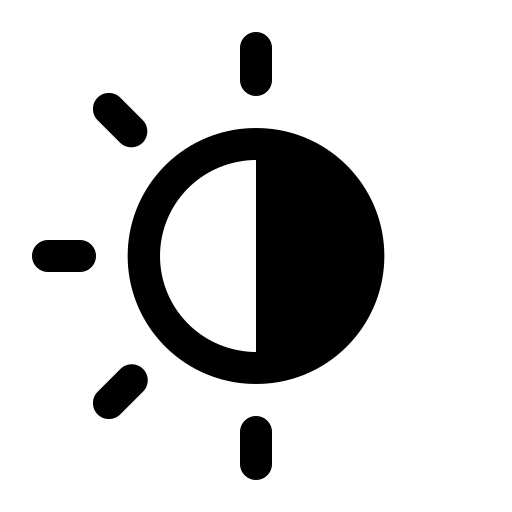
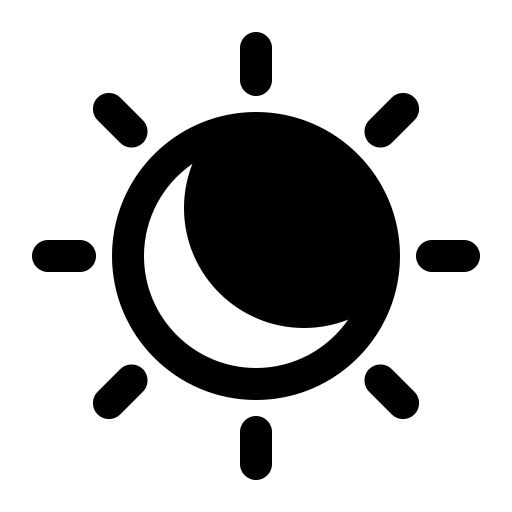
styling bottom left and removing sort title display

Changed region(s): [[0.2188, 0.1562, 0.8438, 0.8438], [0.8125, 0.4688, 0.9375, 0.5312]]

diff --git a/src/template.html b/src/template.html
@@ -158,7 +158,7 @@
                     <div class="left-footer-top">
                         <div class="github-logo">
                             <a href="https://github.com/jshuhler" target="_blank" rel="noreferrer">
-                                <svg viewBox="0 0 16 16" xmlns="http://www.w3.org/2000/svg" height="24" width="24">
+                                <svg viewBox="0 0 16 16" xmlns="http://www.w3.org/2000/svg" height="28" width="28">
                                     <path d="M7.999933333333333 0.35346666666666665c-1.8616000000000001 0.00006666666666666667 -3.662466666666666 0.6626 -5.080266666666667 1.8689333333333331C1.5017999999999998 3.4287333333333327 0.5594666666666666 5.100266666666666 0.26126666666666665 6.937866666666666c-0.29819999999999997 1.8375333333333332 0.0672 3.7212666666666667 1.0308 5.3141333333333325 0.9635333333333334 1.5927333333333333 2.462466666666667 2.790733333333333 4.228533333333333 3.3795333333333333 0.39199999999999996 0.0686 0.5389999999999999 -0.1666 0.5389999999999999 -0.37239999999999995 0 -0.18619999999999998 -0.0098 -0.8036 -0.0098 -1.4602 -1.9697999999999998 0.36260000000000003 -2.4794 -0.4801333333333333 -2.6361999999999997 -0.9211333333333332 -0.174 -0.4288666666666666 -0.4498 -0.8089333333333333 -0.8036 -1.1074 -0.2744 -0.147 -0.6664 -0.5095999999999999 -0.0098 -0.5194 0.2507333333333333 0.027200000000000002 0.4911333333333333 0.11446666666666666 0.7010000000000001 0.2543333333333333 0.2098 0.13986666666666664 0.3828666666666667 0.3283333333333333 0.5044 0.5492666666666666 0.10719999999999999 0.1926 0.25139999999999996 0.36219999999999997 0.4242666666666666 0.499 0.17286666666666664 0.13679999999999998 0.37106666666666666 0.2382 0.5831999999999999 0.29819999999999997 0.2121333333333333 0.060066666666666664 0.434 0.07773333333333332 0.6529333333333334 0.05193333333333333s0.43066666666666664 -0.09453333333333333 0.6229333333333333 -0.2023333333333333c0.03393333333333333 -0.39859999999999995 0.2116 -0.7712666666666667 0.4998666666666667 -1.0486 -1.7444 -0.19599999999999998 -3.5671999999999997 -0.8722 -3.5671999999999997 -3.8709999999999996 -0.011 -0.7791333333333333 0.27646666666666664 -1.533 0.8036 -2.106933333333333 -0.23966666666666664 -0.6772 -0.21166666666666667 -1.4203999999999999 0.0784 -2.0776 0 0 0.6565333333333333 -0.20579999999999998 2.1559999999999997 0.8036 1.2828 -0.3528 2.6370666666666667 -0.3528 3.9199333333333333 0 1.4993999999999998 -1.0191999999999999 2.1559999999999997 -0.8036 2.1559999999999997 -0.8036 0.29006666666666664 0.6572 0.3181333333333333 1.4003999999999999 0.0784 2.0776 0.5286 0.5729333333333333 0.8164666666666666 1.3275333333333332 0.8036 2.106933333333333 0 3.0086 -1.8325999999999998 3.675 -3.577 3.8709999999999996 0.18706666666666666 0.1896 0.3311333333333333 0.41733333333333333 0.42246666666666666 0.6675333333333333 0.09133333333333334 0.2503333333333333 0.1277333333333333 0.5173333333333333 0.10673333333333332 0.7828666666666666 0 1.0486666666666666 -0.0098 1.8913333333333333 -0.0098 2.1559333333333335 0 0.20579999999999998 0.147 0.4508 0.5389999999999999 0.37239999999999995 1.7629333333333332 -0.5935333333333332 3.2575333333333334 -1.7943333333333333 4.217 -3.3879333333333332 0.9595333333333333 -1.5936666666666666 1.3214 -3.476466666666666 1.0211333333333332 -5.312266666666666 -0.3002666666666667 -1.8357333333333332 -1.2431333333333332 -3.5050666666666666 -2.6604 -4.709933333333333C11.659466666666667 1.0164666666666666 9.860133333333334 0.3544666666666666 7.999933333333333 0.35346666666666665Z" stroke-width="0.6667"></path>
                                 </svg>
                             </a>
@@ -169,7 +169,7 @@
                     </div>
                     <div class="left-footer-bottom">
                         <p>
-                            Copyright © My Name Here 
+                            Copyright © Jeff Shuhler 
                             <script>
                                 document.write(new Date().getFullYear());
                             </script>
@@ -178,8 +178,8 @@
                 </div>
             </div>
             <div class="right-panel">
-                <div class="sort-title-container">
-                </div>
+                <!-- <div class="sort-title-container">
+                </div> -->
                 <div class="todo-container">
                 </div>
                 <button id="add-task-button">

diff --git a/src/displayControl.js b/src/displayControl.js
@@ -89,9 +89,9 @@ function addProjectToSelection(projectArray) {
 // --------------------------------------------------------------------------- //
 
 // update the displayed sort above the todo cards
-function updateViewTitle(targetSort,sortTitle) {
-    sortTitleContainer.textContent = sortTitle
-};
+// function updateViewTitle(targetSort,sortTitle) {
+//     sortTitleContainer.textContent = sortTitle
+// };
 
 // remove and rebuild all todo cards - called for various sorts and initial load
 function addToTodoDisplay(todoArray) {
@@ -180,8 +180,6 @@ function addToTodoDisplay(todoArray) {
             todoProjectContainer.classList.add("todo-project-container");
 
             let projectObject = projectArray.find((project) => project.id === todo.projectId)
-            // console.log("projectObject:", projectObject)
-            // console.log("projectArray when building todo cards:", projectArray)
             todoProjectContainer.textContent = projectObject.name;
             
             infoBottomContainer.appendChild(todoProjectContainer);
@@ -324,8 +322,6 @@ function addToProjectList(projectArray) {
         // add the name of the project to the projectTitle span
         projectTitle.textContent = project.name;
         projectTitle.classList.add("project-title");
-        // this is where to call the function for adding the event listener to 
-        // each project name to change the display to show only todos within that project
 
         // add the x and class to the delete button span
         if (project.name !== "Inbox") { // I don't like that this is hard coded.
@@ -484,7 +480,7 @@ const closedSelect = document.getElementById("closed-select");
 allTodoSelect.addEventListener('click', (e) => {
     let sortTitle = "All Todos"
     selectedSortHighlight(e);
-    updateViewTitle(e.target.id, sortTitle);
+    // updateViewTitle(e.target.id, sortTitle);
     addToTodoDisplay(todoArray);
 });
 
@@ -499,7 +495,7 @@ dueTodaySelect.addEventListener('click', (e) => {
             todaySortArray.push(todo);
         };
     };
-    updateViewTitle(e.target.id, sortTitle);
+    // updateViewTitle(e.target.id, sortTitle);
     addToTodoDisplay(todaySortArray);
 });
 
@@ -514,7 +510,7 @@ overdueSelect.addEventListener('click', (e) => {
             overdueSortArray.push(todo);
         };
     };
-    updateViewTitle(e.target.id, sortTitle);
+    // updateViewTitle(e.target.id, sortTitle);
     addToTodoDisplay(overdueSortArray);
 });
 
@@ -530,7 +526,7 @@ closedSelect.addEventListener('click', (e) => {
         };
     };
     console.log("closedSortArray:", closedSortArray)
-    updateViewTitle(e.target.id, sortTitle);
+    // updateViewTitle(e.target.id, sortTitle);
     addToTodoDisplay(closedSortArray);
 });
 

diff --git a/src/styles.css b/src/styles.css
@@ -254,6 +254,7 @@ dialog button:hover {
 .left-footer {
     position: absolute;
     bottom: 0;
+    left: 0;
     display: flex;
     flex-direction: column;
     width: 100%;
@@ -267,7 +268,15 @@ dialog button:hover {
 }
 
 .left-footer-top img {
-    width: 32px;
+    width: 34px;
+    cursor: pointer;
+}
+
+.left-footer-bottom {
+    display: flex;
+    justify-content: center;
+    font-size: 12px;
+    padding-top: 5px;
 }
 
 /* ===================================
@@ -276,6 +285,7 @@ dialog button:hover {
 .right-panel {
     min-width: 80vw;
     background-color: var(--right-panel-background);
+    padding-top: 60px;
 }
 
 .sort-title-container {
